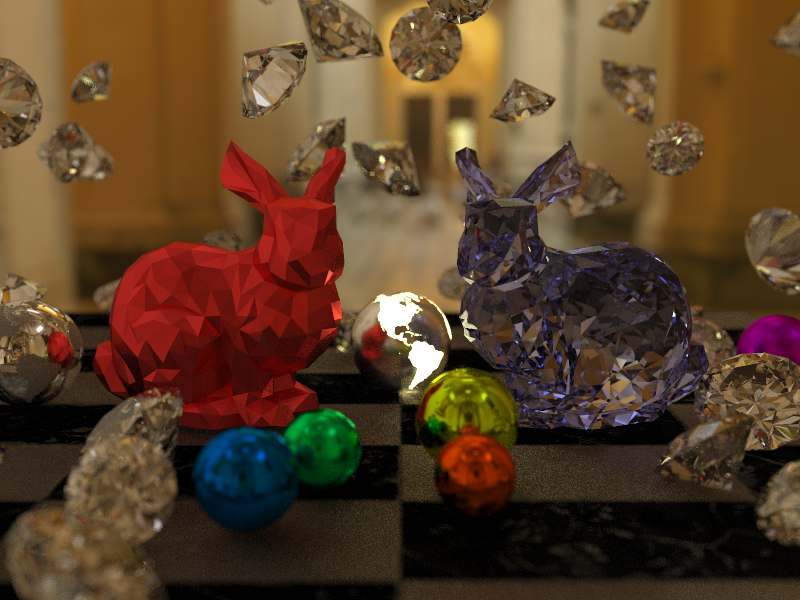
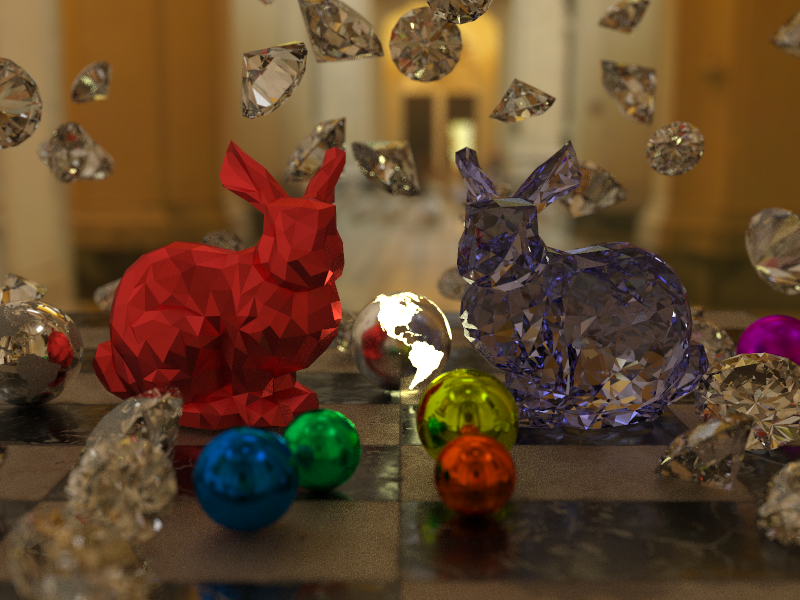
Not use normal material

diff --git a/src/main.rs b/src/main.rs
@@ -215,8 +215,8 @@ fn init_scene() -> (Camera, Scene) {
                     emission: Texture::black(),
                     //roughness: Texture::white(),
                     roughness: Texture::from_path("textures/2d/MarbleFloorTiles2/TexturesCom_MarbleFloorTiles2_1024_roughness.png"),
-                    normal: Texture::from_path("textures/2d/MarbleFloorTiles2/TexturesCom_MarbleFloorTiles2_1024_normal.bmp"),
-                    //normal: Texture::flat(),
+                    //normal: Texture::from_path("textures/2d/MarbleFloorTiles2/TexturesCom_MarbleFloorTiles2_1024_normal.bmp"),
+                    normal: Texture::flat(),
                 }
             }),
         ],
